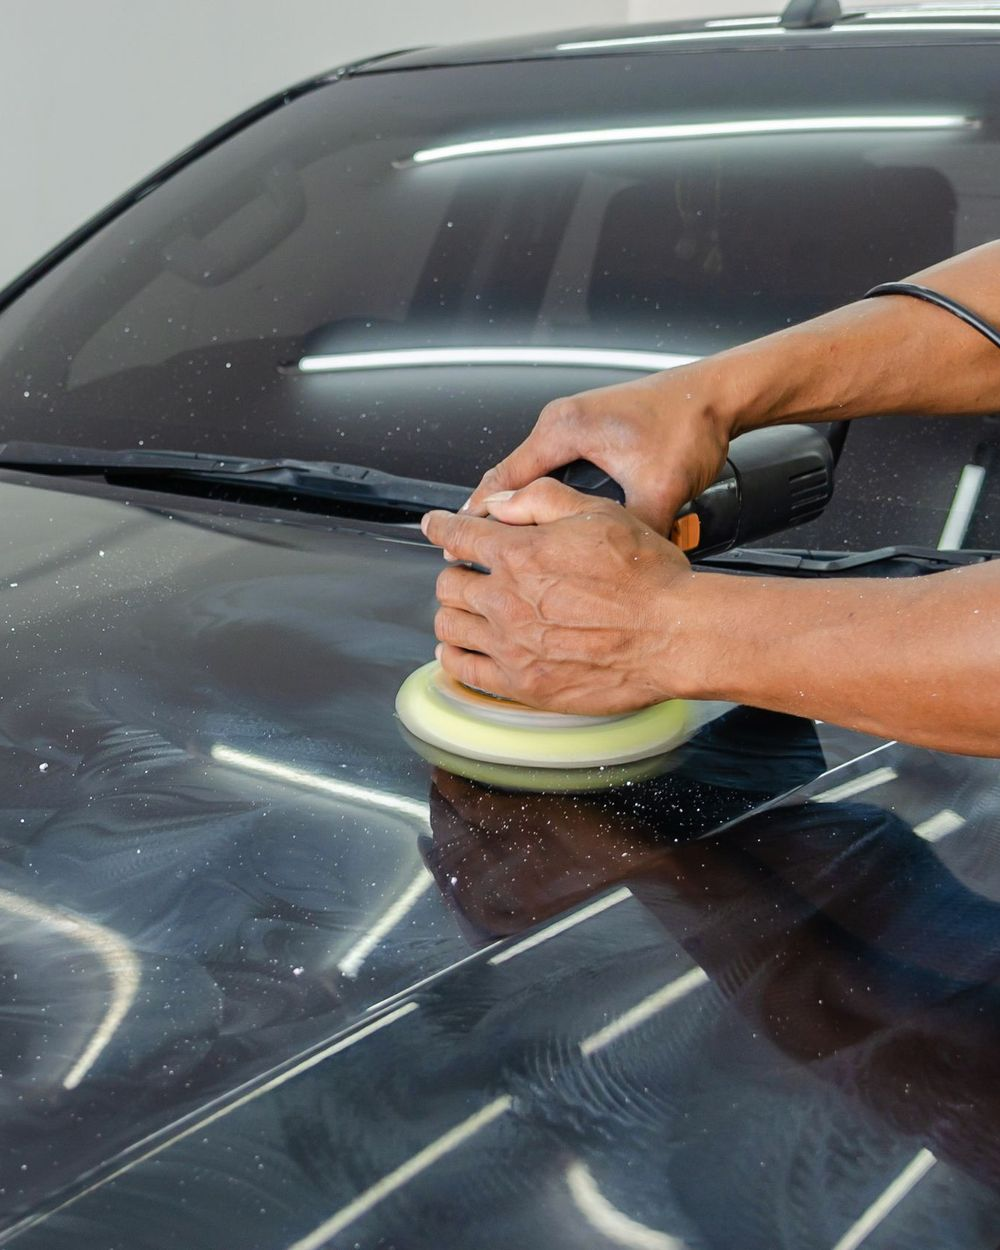
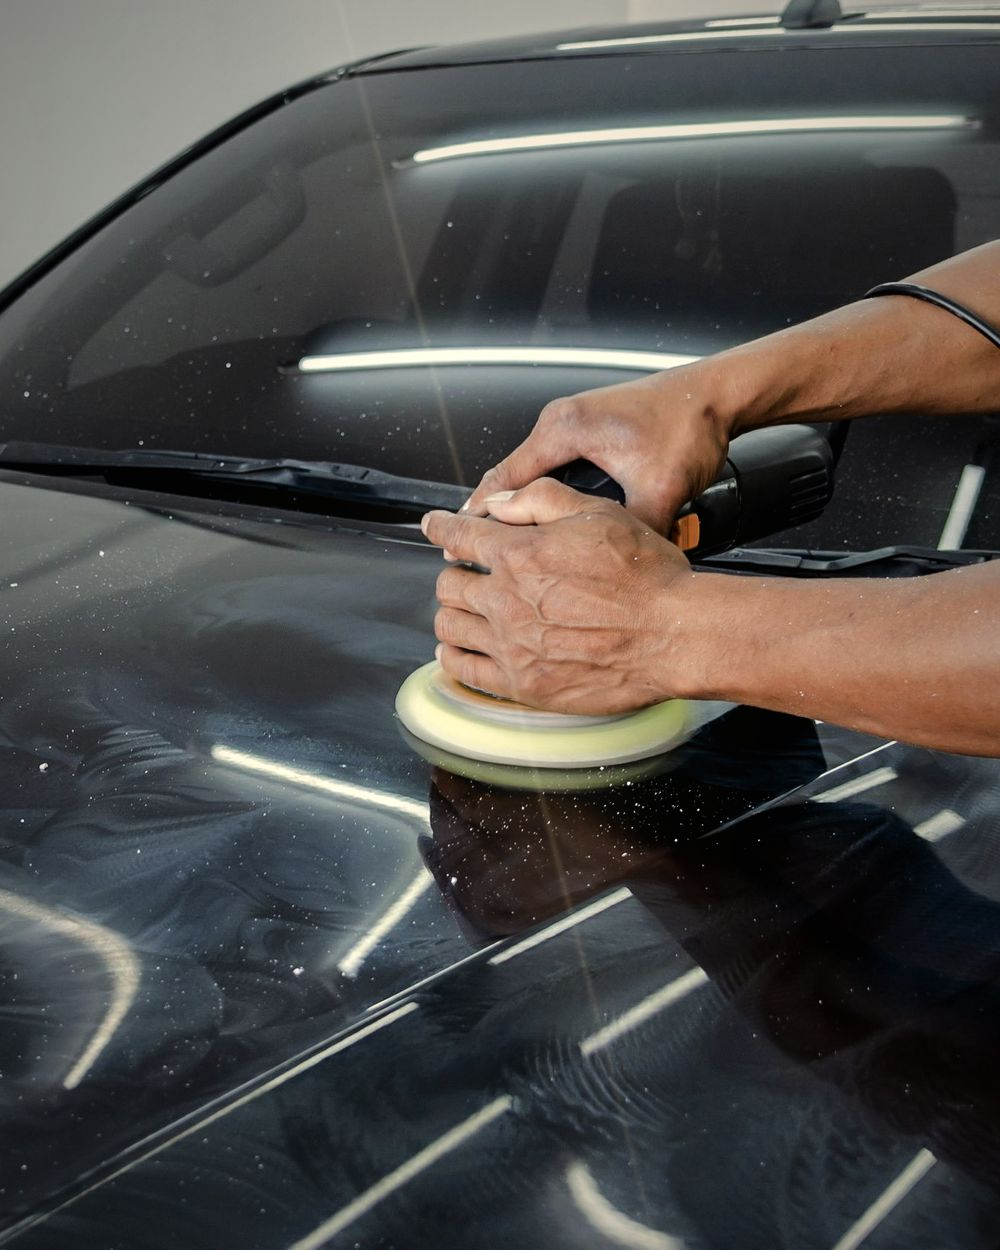
Detailing template: mobile polish, photo viewer fix, unified photo grade, scroll animations
- Mobile menu items at the top
- Photo viewer rendered in a portal (was under header), 90% window, close by X, tap outside, swipe down
- Photos graded to site style with cream light streaks (scripts/build-photos.py grade)
- Soft reveal on scroll for headings, tiles, steps, FAQ
- Hero text restored on mobile: Оставьте заявку, мы вам перезвоним
- Shorter home: no calculator or bundles on home, no tabs on home services, compact steps,
  booking form right after heading, 6 booking days in 3 columns

Claude-Session: https://claude.ai/code/session_01J8HoVSwYCBGA3dxqFk3hvR

diff --git a/projects/detailing/src/components/Gallery.tsx b/projects/detailing/src/components/Gallery.tsx
@@ -1,28 +1,34 @@
 "use client";
 import { useCallback, useEffect, useState } from "react";
+import { createPortal } from "react-dom";
 import Image from "next/image";
 import { AnimatePresence, motion } from "motion/react";
 import { ArrowLeft, ArrowRight, Expand, X } from "lucide-react";
-import { cn } from "@/lib/utils";
-import { tile, Tiles } from "./ui";
+import { Tiles } from "./ui";
 
-// Сетка фото работ. Нажатие открывает просмотр на весь экран: стрелки, свайп, Esc.
+const btn = "grid h-11 w-11 place-items-center rounded-[12px] bg-bg/70 text-fg backdrop-blur-md transition active:scale-95 hover:bg-bg/90";
+
+// Сетка фото работ. Нажатие открывает фото в окне на 90% экрана.
+// Закрыть: крестик, нажатие мимо фото, свайп вниз или Esc. Листать: стрелки или свайп вбок.
 export function Gallery({ photos, cols = "[--n:2] md:[--n:3]" }: { photos: string[]; cols?: string }) {
   const [open, setOpen] = useState<number | null>(null);
+  const [mounted, setMounted] = useState(false);
+  useEffect(() => setMounted(true), []);
   const n = photos.length;
+  const close = useCallback(() => setOpen(null), []);
   const go = useCallback((d: number) => setOpen((i) => (i === null ? i : (i + d + n) % n)), [n]);
 
   useEffect(() => {
     if (open === null) return;
     document.documentElement.style.overflow = "hidden";
     const key = (e: KeyboardEvent) => {
-      if (e.key === "Escape") setOpen(null);
+      if (e.key === "Escape") close();
       if (e.key === "ArrowRight") go(1);
       if (e.key === "ArrowLeft") go(-1);
     };
     window.addEventListener("keydown", key);
     return () => { document.documentElement.style.overflow = ""; window.removeEventListener("keydown", key); };
-  }, [open, go]);
+  }, [open, go, close]);
 
   return (
     <>
@@ -37,39 +43,45 @@ export function Gallery({ photos, cols = "[--n:2] md:[--n:3]" }: { photos: strin
         ))}
       </Tiles>
 
+      {/* Окно выносим в body: внутри страницы его перекрывали шапка и нижняя панель */}
+      {mounted && createPortal(
       <AnimatePresence>
         {open !== null && (
           <motion.div
             role="dialog" aria-modal="true" aria-label={`Фото ${open + 1} из ${n}`}
             initial={{ opacity: 0 }} animate={{ opacity: 1 }} exit={{ opacity: 0 }} transition={{ duration: 0.2 }}
-            className="fixed inset-0 z-[70] flex flex-col bg-bg/97 backdrop-blur-xl"
-            onClick={() => setOpen(null)}
+            className="fixed inset-0 z-[70] grid place-items-center bg-black/80 backdrop-blur-md"
+            onClick={close}
           >
-            <div className="wrap flex h-[var(--hdr)] shrink-0 items-end justify-between pb-2">
-              <span className="tnum text-[14px] text-muted">{open + 1} / {n}</span>
-              <button type="button" aria-label="Закрыть" autoFocus onClick={() => setOpen(null)} className={cn(tile, "h-12 w-12")}><X size={20} aria-hidden /></button>
-            </div>
-            <div className="relative min-h-0 flex-1" onClick={(e) => e.stopPropagation()}>
+            {/* Окно на 90% экрана. Нажатие мимо фото закрывает, свайп вниз тоже */}
+            <motion.div
+              key="frame" initial={{ opacity: 0, scale: 0.96 }} animate={{ opacity: 1, scale: 1 }} exit={{ opacity: 0, scale: 0.96 }} transition={{ duration: 0.25, ease: [0.16, 1, 0.3, 1] }}
+              className="relative h-[90svh] w-[94vw] max-w-[1100px] overflow-hidden rounded-[22px] bg-surface"
+              onClick={(e) => e.stopPropagation()}
+              drag dragDirectionLock dragSnapToOrigin dragElastic={0.35} dragConstraints={{ top: 0, bottom: 0, left: 0, right: 0 }}
+              onDragEnd={(_, info) => {
+                if (info.offset.y > 90 || info.velocity.y > 600) close();
+                else if (info.offset.x < -60) go(1);
+                else if (info.offset.x > 60) go(-1);
+              }}
+            >
               <AnimatePresence initial={false} mode="popLayout">
-                <motion.div
-                  key={open} className="absolute inset-0 px-[var(--pad)]"
-                  initial={{ opacity: 0, scale: 0.98 }} animate={{ opacity: 1, scale: 1 }} exit={{ opacity: 0, scale: 0.98 }} transition={{ duration: 0.25 }}
-                  drag="x" dragConstraints={{ left: 0, right: 0 }} dragElastic={0.25}
-                  onDragEnd={(_, info) => { if (info.offset.x < -60) go(1); else if (info.offset.x > 60) go(-1); }}
-                >
-                  <div className="relative h-full w-full">
-                    <Image src={photos[open]} alt={`Работа ${open + 1}`} fill sizes="100vw" className="pointer-events-none object-contain" />
-                  </div>
+                <motion.div key={open} className="absolute inset-0" initial={{ opacity: 0 }} animate={{ opacity: 1 }} exit={{ opacity: 0 }} transition={{ duration: 0.22 }}>
+                  <Image src={photos[open]} alt={`Работа ${open + 1}`} fill sizes="94vw" className="pointer-events-none select-none object-contain" priority />
                 </motion.div>
               </AnimatePresence>
-            </div>
-            <div className="wrap flex h-[88px] shrink-0 items-center justify-center gap-3 pb-[env(safe-area-inset-bottom)]" onClick={(e) => e.stopPropagation()}>
-              <button type="button" aria-label="Предыдущее фото" onClick={() => go(-1)} className={cn(tile, "h-12 w-12")}><ArrowLeft size={20} aria-hidden /></button>
-              <button type="button" aria-label="Следующее фото" onClick={() => go(1)} className={cn(tile, "h-12 w-12")}><ArrowRight size={20} aria-hidden /></button>
-            </div>
+
+              <button type="button" aria-label="Закрыть" autoFocus onClick={close} className={`${btn} absolute right-3 top-3 z-10`}><X size={20} aria-hidden /></button>
+              <span className="tnum absolute left-3 top-3 z-10 grid h-11 place-items-center rounded-[12px] bg-bg/70 px-3 text-[14px] backdrop-blur-md">{open + 1} / {n}</span>
+              <div className="absolute inset-x-3 bottom-3 z-10 flex items-center justify-between">
+                <button type="button" aria-label="Предыдущее фото" onClick={() => go(-1)} className={btn}><ArrowLeft size={20} aria-hidden /></button>
+                <button type="button" aria-label="Следующее фото" onClick={() => go(1)} className={btn}><ArrowRight size={20} aria-hidden /></button>
+              </div>
+            </motion.div>
           </motion.div>
         )}
-      </AnimatePresence>
+      </AnimatePresence>,
+      document.body)}
     </>
   );
 }

diff --git a/projects/detailing/src/components/Booking.tsx b/projects/detailing/src/components/Booking.tsx
@@ -3,31 +3,31 @@ import { site } from "@/site.config";
 import { cn } from "@/lib/utils";
 import { button, Section } from "./ui";
 import { LeadForm } from "./LeadForm";
-import { OpenStatus } from "./OpenStatus";
 
 // Запись: слева быстрые способы связаться, справа короткая форма.
 export function Booking({ service }: { service?: string }) {
   return (
     <Section id="booking" label="Запись" className="border-t border-line">
-      <div className="wrap grid gap-10 lg:grid-cols-[minmax(0,1fr)_minmax(0,1fr)] lg:gap-16">
-        <div>
+      <div className="wrap grid gap-x-16 gap-y-6 lg:grid-cols-[minmax(0,1fr)_minmax(0,1fr)]">
+        {/* Телефон: сначала заголовок, потом форма, потом способы связи. На компьютере слева текст и контакты, справа форма */}
+        <div className="lg:col-start-1 lg:row-start-1">
           <h2 className="text-[28px] sm:text-[36px] lg:text-[46px]">Запись</h2>
-          <p className="mt-3 max-w-[440px] text-[15px] leading-relaxed text-muted">{site.callback.text}</p>
-          <a href={`tel:${site.phoneHref}`} className="tnum mt-8 block w-fit font-display text-[clamp(24px,7.4vw,44px)] leading-tight tracking-[-0.01em] underline decoration-accent/0 decoration-1 underline-offset-[10px] transition hover:text-accent hover:decoration-accent/60">
+          <p className="mt-2 max-w-[440px] text-[15px] leading-relaxed text-muted">{site.callback.text}</p>
+        </div>
+        <div className="relative overflow-hidden rounded-[24px] border border-line bg-surface p-4 sm:p-8 lg:col-start-2 lg:row-span-2 lg:row-start-1">
+          <h3 className="mb-4 text-[20px]">Заявка на запись</h3>
+          <LeadForm full source={service ? `Запись: ${service}` : "Форма записи"} service={service} />
+        </div>
+        <div className="lg:col-start-1 lg:row-start-2">
+          <a href={`tel:${site.phoneHref}`} className="tnum block w-fit font-display text-[clamp(24px,7.4vw,40px)] leading-tight tracking-[-0.01em] transition hover:text-accent">
             {site.phone}
           </a>
-          <p className="mt-2 text-[14px] text-muted">{site.hours}</p>
-          <OpenStatus className="mt-1 text-[14px] text-fg/80" />
-          <p className="mt-6 max-w-[440px] text-[14px] leading-relaxed text-fg/80">{site.callback.photo}</p>
+          <p className="mt-4 max-w-[440px] text-[14px] leading-relaxed text-fg/80">{site.callback.photo}</p>
           <div className="mt-3 grid grid-cols-2 gap-2 sm:flex">
             <a href={site.telegram} target="_blank" rel="noopener" className={cn(button({ variant: "ghost" }), "min-w-0 px-3 sm:px-5")}><Send size={17} aria-hidden /> Telegram</a>
             <a href={`${site.whatsapp}?text=${encodeURIComponent(site.photoText + (service ? `(услуга: ${service}) ` : ""))}`} target="_blank" rel="noopener" className={cn(button({ variant: "ghost" }), "min-w-0 px-3 sm:px-5")}><MessageCircle size={17} aria-hidden /> WhatsApp</a>
             <a href={`tel:${site.phoneHref}`} className={cn(button({ variant: "ghost" }), "max-sm:hidden")}><Phone size={17} aria-hidden /> Позвонить</a>
           </div>
-        </div>
-        <div className="relative overflow-hidden rounded-[24px] border border-line bg-surface p-5 sm:p-8">
-          <h3 className="mb-5 text-[20px]">Заявка на запись</h3>
-          <LeadForm full source={service ? `Запись: ${service}` : "Форма записи"} service={service} />
         </div>
       </div>
     </Section>

diff --git a/projects/detailing/src/components/Services.tsx b/projects/detailing/src/components/Services.tsx
@@ -2,19 +2,21 @@
 import { useState } from "react";
 import { AnimatePresence, motion } from "motion/react";
 import { site } from "@/site.config";
-import { Head, Section, Tiles } from "./ui";
+import Link from "next/link";
+import { Calculator } from "lucide-react";
+import { button, Head, Section, Tiles } from "./ui";
 import { Chips } from "./Chips";
 import { ServiceCard } from "./ServiceCard";
 
 // Услуги: вкладки-направления и сетка плашек. Неполный ряд встаёт по центру.
 export function Services({ head = true }: { head?: boolean }) {
   const [i, setI] = useState(0);
-  const cat = site.serviceCats[i];
+  const cat = head ? "Все" : site.serviceCats[i];
   const list = site.services.filter((s) => cat === "Все" || s.cat === cat);
   return (
     <Section id="services" label="Услуги" className={head ? undefined : "pt-8 md:pt-12"}>
-      {head && <Head title="Услуги" text="Нажмите на услугу: внутри цены по классу машины, что входит и как проходит работа." />}
-      <Chips id="svc" items={site.serviceCats} value={i} onChange={setI} label="Направление" className="mb-5 md:mb-8" />
+      {head && <Head title="Услуги" text="Нажмите на услугу: цены, что входит, сроки." />}
+      {!head && <Chips id="svc" items={site.serviceCats} value={i} onChange={setI} label="Направление" className="mb-5 md:mb-8" />}
       <div id="svc-panel" role="tabpanel" aria-labelledby={`svc-tab-${i}`} className="wrap">
         <Tiles cols="[--n:2] lg:[--n:3]">
           <AnimatePresence mode="popLayout" initial={false}>
@@ -29,6 +31,12 @@ export function Services({ head = true }: { head?: boolean }) {
             ))}
           </AnimatePresence>
         </Tiles>
+        {head && (
+          <div className="mt-5 grid gap-2 sm:grid-cols-2 md:mt-8">
+            <Link href="/uslugi#calc" className={button({ size: "lg" })}><Calculator size={18} aria-hidden /> Рассчитать цену</Link>
+            <a href="#booking" className={button({ variant: "ghost", size: "lg" })}>Записаться</a>
+          </div>
+        )}
       </div>
     </Section>
   );

diff --git a/projects/detailing/src/components/LeadForm.tsx b/projects/detailing/src/components/LeadForm.tsx
@@ -39,7 +39,7 @@ export function LeadForm({ full = false, source, service: preset }: { full?: boo
     window.addEventListener("prefill-lead", pre);
     // Ближайшие 7 дней для записи (считаем в браузере, у сервера другое «сегодня»)
     const fmt = new Intl.DateTimeFormat("ru-RU", { weekday: "short", day: "numeric", month: "short", timeZone: site.timezone });
-    setDays(Array.from({ length: 7 }, (_, i) => (i === 0 ? "Сегодня" : i === 1 ? "Завтра" : fmt.format(new Date(Date.now() + i * 864e5)))));
+    setDays(Array.from({ length: 6 }, (_, i) => (i === 0 ? "Сегодня" : i === 1 ? "Завтра" : fmt.format(new Date(Date.now() + i * 864e5)))));
     return () => { window.removeEventListener("select-service", on); window.removeEventListener("prefill-lead", pre); };
   }, [full]);
 
@@ -110,10 +110,10 @@ export function LeadForm({ full = false, source, service: preset }: { full?: boo
               </div>
               <fieldset className="min-w-0">
                 <legend className={label}>Когда удобно приехать</legend>
-                <div className="flex flex-wrap gap-2">
+                <div className="grid grid-cols-3 gap-2">
                   {(days.length ? days : ["Сегодня", "Завтра"]).map((d, i) => (
                     <button key={d} type="button" aria-pressed={day === i} onClick={() => setDay(day === i ? -1 : i)}
-                      className={cn("h-11 rounded-[12px] px-3.5 text-[14px] font-medium transition", day === i ? "bg-accent text-accent-ink" : "bg-surface-2 hover:bg-[#2d2c28]")}>{d}</button>
+                      className={cn("h-11 min-w-0 truncate rounded-[12px] px-1 text-[13px] font-medium transition", day === i ? "bg-accent text-accent-ink" : "bg-surface-2 hover:bg-[#2d2c28]")}>{d}</button>
                   ))}
                 </div>
                 {day >= 0 && (

diff --git a/projects/detailing/src/components/Reveal.tsx b/projects/detailing/src/components/Reveal.tsx
@@ -1,0 +1,33 @@
+"use client";
+import { useEffect } from "react";
+import { usePathname } from "next/navigation";
+
+// Плавное появление блоков при прокрутке: заголовки, плашки, шаги, вопросы.
+// Всё, что уже видно при открытии страницы, не трогаем (без вспышек). Без JS всё видно сразу.
+// Стили в globals.css (data-rv). При «уменьшить движение» в настройках телефона отключается.
+export function Reveal() {
+  const path = usePathname();
+  useEffect(() => {
+    if (window.matchMedia("(prefers-reduced-motion: reduce)").matches) return;
+    const sel = "main h2, main .tiles > *, main ol > li, main details, main [data-reveal]";
+    const els = Array.from(document.querySelectorAll<HTMLElement>(sel)).filter(
+      (el) => !el.closest('[role="region"], [role="dialog"]') && el.getBoundingClientRect().top > window.innerHeight * 0.92,
+    );
+    const seen = new Map<Element, number>();
+    els.forEach((el) => {
+      const i = seen.get(el.parentElement!) ?? 0;
+      seen.set(el.parentElement!, i + 1);
+      el.style.setProperty("--rv-d", `${Math.min(i, 5) * 70}ms`);
+      el.setAttribute("data-rv", "0");
+    });
+    const show = (el: Element) => el.setAttribute("data-rv", "1");
+    const io = new IntersectionObserver(
+      (list) => list.forEach((e) => { if (e.isIntersecting) { show(e.target); io.unobserve(e.target); } }),
+      { rootMargin: "0px 0px -6% 0px", threshold: 0.05 },
+    );
+    els.forEach((el) => io.observe(el));
+    const safety = window.setTimeout(() => els.forEach(show), 6000); // на случай, если что-то не сработало
+    return () => { io.disconnect(); window.clearTimeout(safety); };
+  }, [path]);
+  return null;
+}

diff --git a/projects/detailing/src/components/ui.tsx b/projects/detailing/src/components/ui.tsx
@@ -22,7 +22,7 @@ export const tile = "grid place-items-center rounded-[14px] bg-surface-2/80 back
 
 export function Section({ id, className, children, label }: { id?: string; className?: string; children: React.ReactNode; label?: string }) {
   return (
-    <section id={id} aria-label={label} className={cn("py-14 md:py-24", className)}>
+    <section id={id} aria-label={label} className={cn("py-10 md:py-24", className)}>
       {children}
     </section>
   );
@@ -31,7 +31,7 @@ export function Section({ id, className, children, label }: { id?: string; class
 // Заголовок блока: слева название, справа короткий текст или кнопка
 export function Head({ title, text, aside, className }: { title: string; text?: string; aside?: React.ReactNode; className?: string }) {
   return (
-    <div className={cn("wrap mb-6 flex flex-col gap-3 md:mb-10 md:flex-row md:items-end md:justify-between md:gap-10", className)}>
+    <div className={cn("wrap mb-5 flex flex-col gap-2 md:mb-10 md:flex-row md:items-end md:justify-between md:gap-10", className)}>
       <h2 className="text-[28px] sm:text-[36px] lg:text-[46px]">{title}</h2>
       {(text || aside) && (
         <div className="flex flex-col gap-4 md:max-w-[380px] md:items-end md:text-right">

diff --git a/projects/detailing/src/app/page.tsx b/projects/detailing/src/app/page.tsx
@@ -1,10 +1,8 @@
 import { site } from "@/site.config";
 import { Hero } from "@/components/Hero";
 import { Services } from "@/components/Services";
-import { Calculator } from "@/components/Calculator";
 import { Works } from "@/components/Works";
 import { Steps } from "@/components/Steps";
-import { Packs } from "@/components/Packs";
 import { JsonLd } from "@/components/ui";
 import { Reviews } from "@/components/Reviews";
 import { Faq } from "@/components/Faq";
@@ -51,13 +49,11 @@ export default function Page() {
       <JsonLd data={jsonLd} />
       <Hero />
       <Services />
-      <Calculator />
       <Works limit={4} />
-      <Packs id="bundles" items={site.bundles} title="Комплексы" text="Несколько услуг за один визит. Выходит дешевле, чем по отдельности." />
       <Steps />
       <Reviews />
       <Booking />
-      <Faq />
+      <Faq items={site.faq.slice(0, 4)} />
       <Contacts />
     </>
   );

diff --git a/projects/detailing/src/app/layout.tsx b/projects/detailing/src/app/layout.tsx
@@ -5,6 +5,7 @@ import { Header } from "@/components/Header";
 import { Footer } from "@/components/Footer";
 import { MobileBar } from "@/components/MobileBar";
 import { PwaProvider } from "@/components/Pwa";
+import { Reveal } from "@/components/Reveal";
 import { SPLASH } from "@/lib/splash";
 import "./globals.css";
 
@@ -39,6 +40,7 @@ export default function RootLayout({ children }: { children: React.ReactNode }) 
         <a href="#main" className="sr-only focus:not-sr-only focus:fixed focus:top-3 focus:left-3 focus:z-[60] focus:rounded-[14px] focus:bg-accent focus:px-4 focus:py-2 focus:text-accent-ink">К содержимому</a>
         <MotionConfig reducedMotion="user">
           <PwaProvider>
+            <Reveal />
             <Header />
             <main id="main">{children}</main>
             <Footer />

diff --git a/projects/detailing/src/components/Works.tsx b/projects/detailing/src/components/Works.tsx
@@ -15,13 +15,8 @@ export function Works({ limit, more = true }: { limit?: number; more?: boolean }
       <Head title={w.title} text={w.text} />
       <div className="wrap max-md:px-0">
         <BeforeAfter />
-        <ul className="mt-5 grid gap-x-8 gap-y-2 text-[14px] text-fg/75 sm:grid-cols-3 max-md:px-[var(--pad)] md:mt-8 md:text-[15px]">
-          {w.facts.map((f) => (
-            <li key={f} className="flex items-center gap-3"><span aria-hidden className="h-px w-5 shrink-0 bg-accent" />{f}</li>
-          ))}
-        </ul>
       </div>
-      <div className="wrap mt-10 md:mt-14">
+      <div className="wrap mt-6 md:mt-12">
         <Gallery photos={photos} cols={limit === 4 ? "[--n:2] md:[--n:4]" : "[--n:2] md:[--n:3]"} />
         {more && (
           <div className="mt-6 flex justify-center">

diff --git a/projects/detailing/src/components/Contacts.tsx b/projects/detailing/src/components/Contacts.tsx
@@ -15,7 +15,7 @@ export function Contacts() {
   return (
     <Section id="contacts" label="Как добраться" className="border-t border-line">
       <div className="wrap grid gap-8 lg:grid-cols-[minmax(0,1.2fr)_minmax(0,1fr)] lg:items-center lg:gap-16">
-        <div className="zoom relative order-2 -mx-[var(--pad)] aspect-[4/3] lg:order-1 overflow-hidden bg-surface sm:mx-0 sm:rounded-[24px]">
+        <div className="zoom relative order-2 -mx-[var(--pad)] aspect-[16/9] sm:aspect-[4/3] lg:order-1 overflow-hidden bg-surface sm:mx-0 sm:rounded-[24px]">
           <Image src={site.studioImage} alt={`Вход в студию ${site.name}`} fill sizes="(min-width: 1024px) 680px, 100vw" className="object-cover" />
         </div>
         <div className="order-1 lg:order-2">

diff --git a/projects/detailing/src/app/globals.css b/projects/detailing/src/app/globals.css
@@ -110,3 +110,10 @@ html[data-app] { overscroll-behavior-y: none; }
 html[data-app] body { -webkit-touch-callout: none; }
 html[data-app] a, html[data-app] button { -webkit-user-select: none; user-select: none; }
 html[data-app] img { -webkit-user-drag: none; }
+
+/* Появление блоков при прокрутке (см. components/Reveal.tsx) */
+[data-rv="0"] { opacity: 0; transform: translateY(18px); }
+[data-rv="1"] { opacity: 1; transform: none; transition: opacity 0.7s var(--ease-out-expo) var(--rv-d, 0ms), transform 0.7s var(--ease-out-expo) var(--rv-d, 0ms); }
+
+/* Плавные нажатия: кнопки и плашки чуть проседают и возвращаются */
+button, a { -webkit-tap-highlight-color: transparent; }
